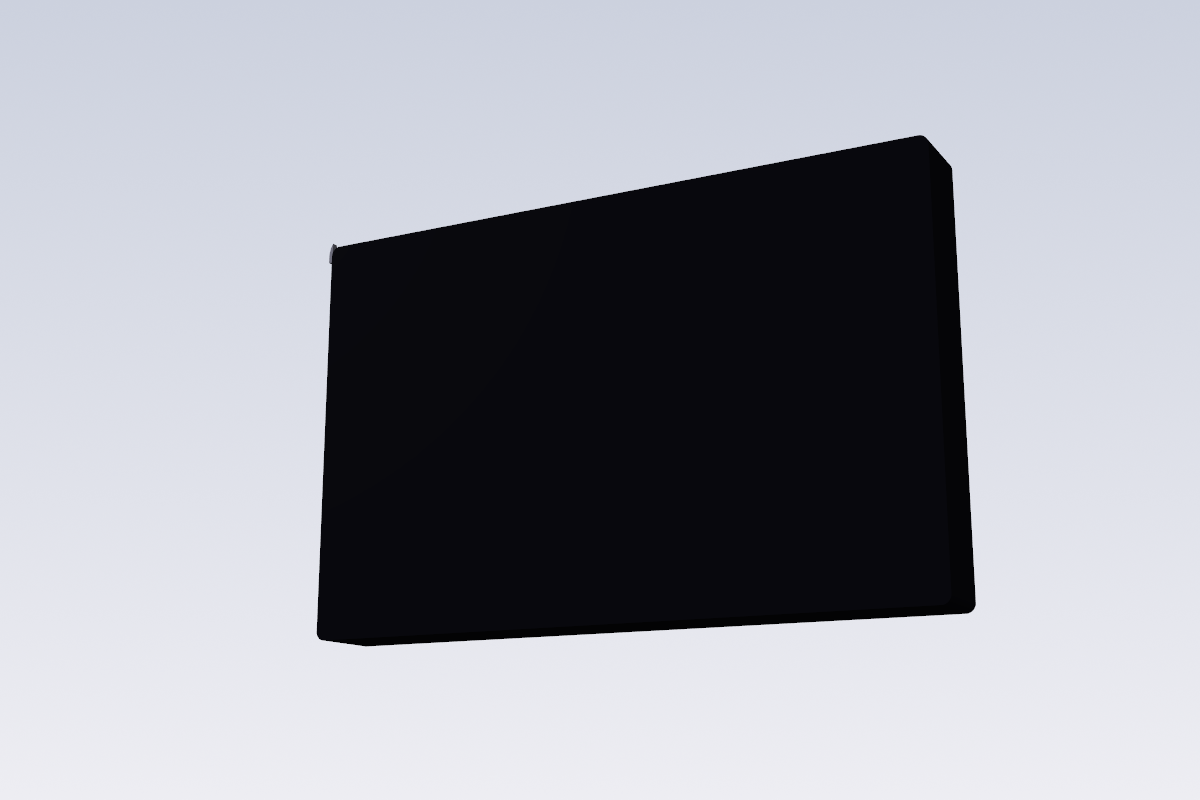
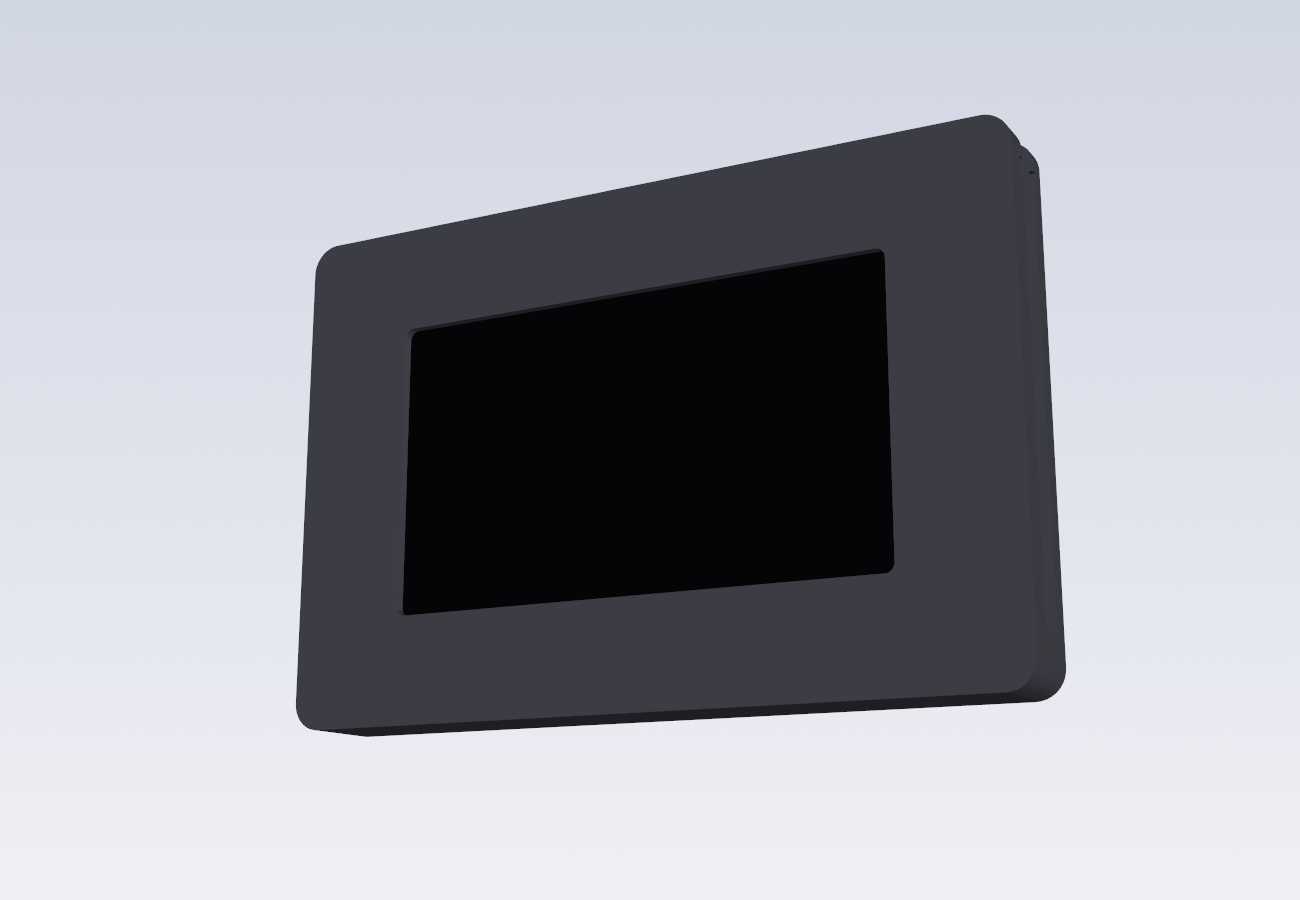
README: exploded 7-piece view as hero, piece/sheet count, fixed front lighting

Changed region(s): [[0.2158, 0.125, 0.8325, 0.8438]]

diff --git a/README.md b/README.md
@@ -5,7 +5,14 @@ The **Raspberry Pi 5** bolts to the display's own posts and hangs out the open
 back with its cooler / NVMe exposed. Real Switch Joy-Cons slide down into
 **T-slots cut straight into the acrylic layers** — no printing, no glued rails.
 
-![front](out/acrylic/v6_open_slot/preview_front.png)
+**7 acrylic pieces, 4 thicknesses, 18 mm thick.** Front plate + 6 layers, ordered as one DXF sheet per thickness.
+
+![exploded](out/acrylic/v6_open_slot/preview_exploded.png)
+
+| front (screen off) | open back — Pi 5 + cooler exposed |
+|---|---|
+| ![front](out/acrylic/v6_open_slot/preview_front.png) | ![back](out/acrylic/v6_open_slot/preview_back.png) |
+
 ![slot](out/acrylic/v6_open_slot/preview_slot.png)
 
 ## The Joy-Con slot — measured, not guessed
